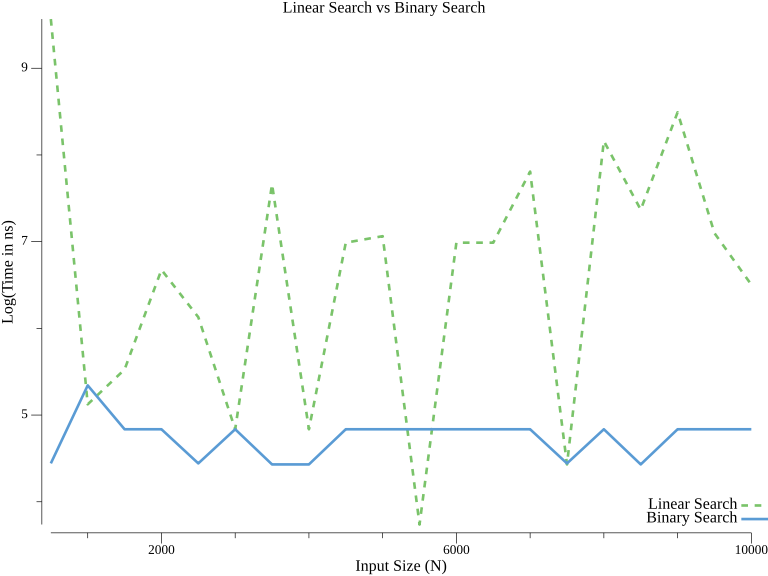
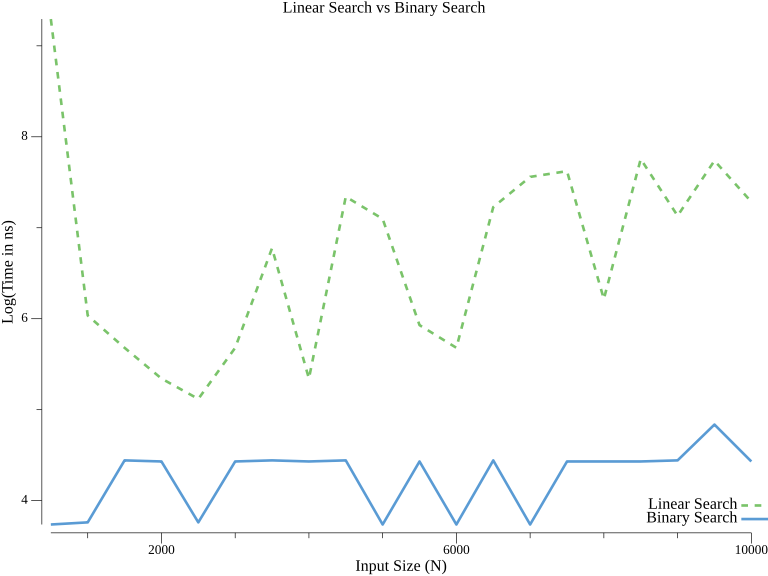
Feat: chocolate bar problem solve

diff --git a/problem-solving/splitting-chocolatebar/split-chocobar.go b/problem-solving/splitting-chocolatebar/split-chocobar.go
@@ -1,0 +1,63 @@
+// without stacking
+// when cutting the chocolatebar
+
+// time Complexity O(n*2)
+// space is O(n) (because bars is growing with the input size)
+package main
+
+import "fmt"
+
+func splitChocolateBar(n int) {
+	bars := []int{n}
+
+	step := 0
+
+	for len(bars) > 0 {
+		breakIndex := -1
+
+		for i := 0; i < len(bars); i++ {
+			if bars[i] > 1 {
+
+				breakIndex = i // all time gets the 0 index
+				break
+			}
+
+		}
+
+		if breakIndex == -1 {
+			break
+		}
+
+		size := bars[breakIndex]
+		left := size / 2
+		right := size - left
+
+		fmt.Printf("Step %d: Break %d-piece bar → %d and %d\n", step, size, left, right)
+
+		// empty the bars slice first time when bars = [8]
+		// and on the second time bars = [4,4], so remove the first 4 and then add the
+		// first 4's right(2) and left(2) on the second 4's
+		// and get [4,2,2]
+		bars = append(bars[:breakIndex], bars[breakIndex+1:]...)
+
+		// then add the left and right to the bars slice
+		bars = append(bars, left, right)
+
+		// Show current state
+		fmt.Printf("        Current pieces: %v\n", bars)
+
+		step++
+
+	}
+
+	fmt.Printf("Total step : %d\n", step)
+
+}
+
+func main() {
+
+	n := 8
+
+	splitChocolateBar(n)
+
+}

diff --git a/problem-solving/binary-search/main.go b/problem-solving/binary-search/main.go
@@ -3,18 +3,27 @@ package main
 import "fmt"
 
 func binarySearch(arr []int, n int) int {
-	first := 0
-	last := len(arr) - 1
+	left := 0
+	right := len(arr) - 1
+	var step int
 
-	for first <= last {
-		mid := (first + last) / 2
+	for left <= right {
+		mid := (left + right) / 2
+
 		if arr[mid] == n {
+
+			fmt.Printf("step : %d\n", step)
 			return mid
-		} else if arr[mid] < n {
-			first = mid + 1
+		} else if arr[mid] > n {
+
+			right = mid - 1
+
+			step++
 
 		} else {
-			last = mid - 1
+			left = mid + 1
+
+			step++
 		}
 
 	}
@@ -23,8 +32,7 @@ func binarySearch(arr []int, n int) int {
 }
 
 func main() {
-
-	arrayOfNumbers := []int{-5, -3, 0, 4, 20}
-	fmt.Printf("%d\n", binarySearch(arrayOfNumbers, -4))
+	arr := []int{-5, -3, 0, 4, 20}
+	fmt.Printf("The binary seach result is : %d\n", binarySearch(arr, -3))
 
 }

diff --git a/problem-solving/binary-vs-linear-search/main.go b/problem-solving/binary-vs-linear-search/main.go
@@ -5,6 +5,7 @@ import (
 	"log"
 	"math"
 	"math/rand"
+	"net/http"
 	"time"
 
 	"gonum.org/v1/plot"
@@ -101,4 +102,14 @@ func main() {
 	if err := p.Save(8*vg.Inch, 6*vg.Inch, "search_comparison.png"); err != nil {
 		log.Fatal(err)
 	}
+
+	mux := http.NewServeMux()
+	mux.HandleFunc("/", func(w http.ResponseWriter, r *http.Request) {
+
+		http.ServeFile(w, r, "search_comparison.png")
+	})
+
+	fmt.Println("Serving on http://localhost:8080")
+
+	http.ListenAndServe(":8080", mux)
 }
